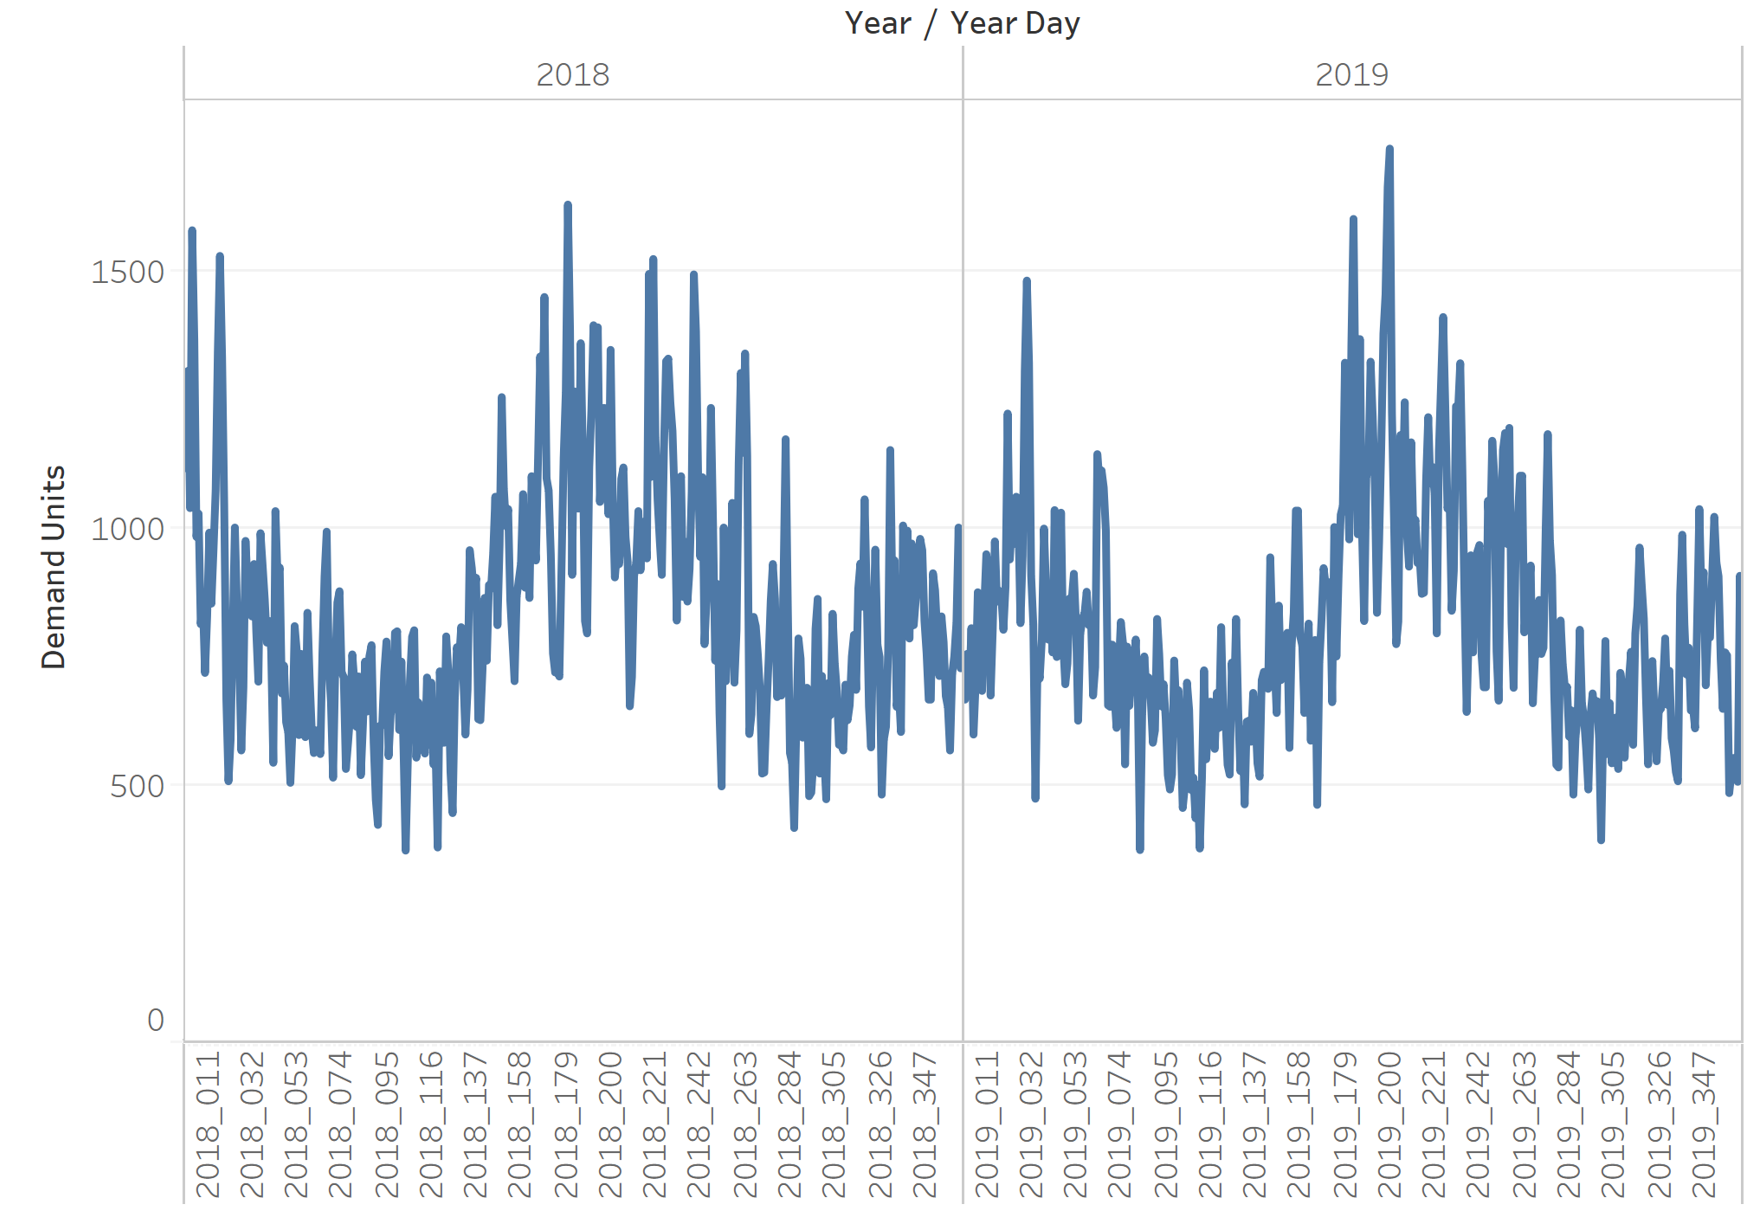
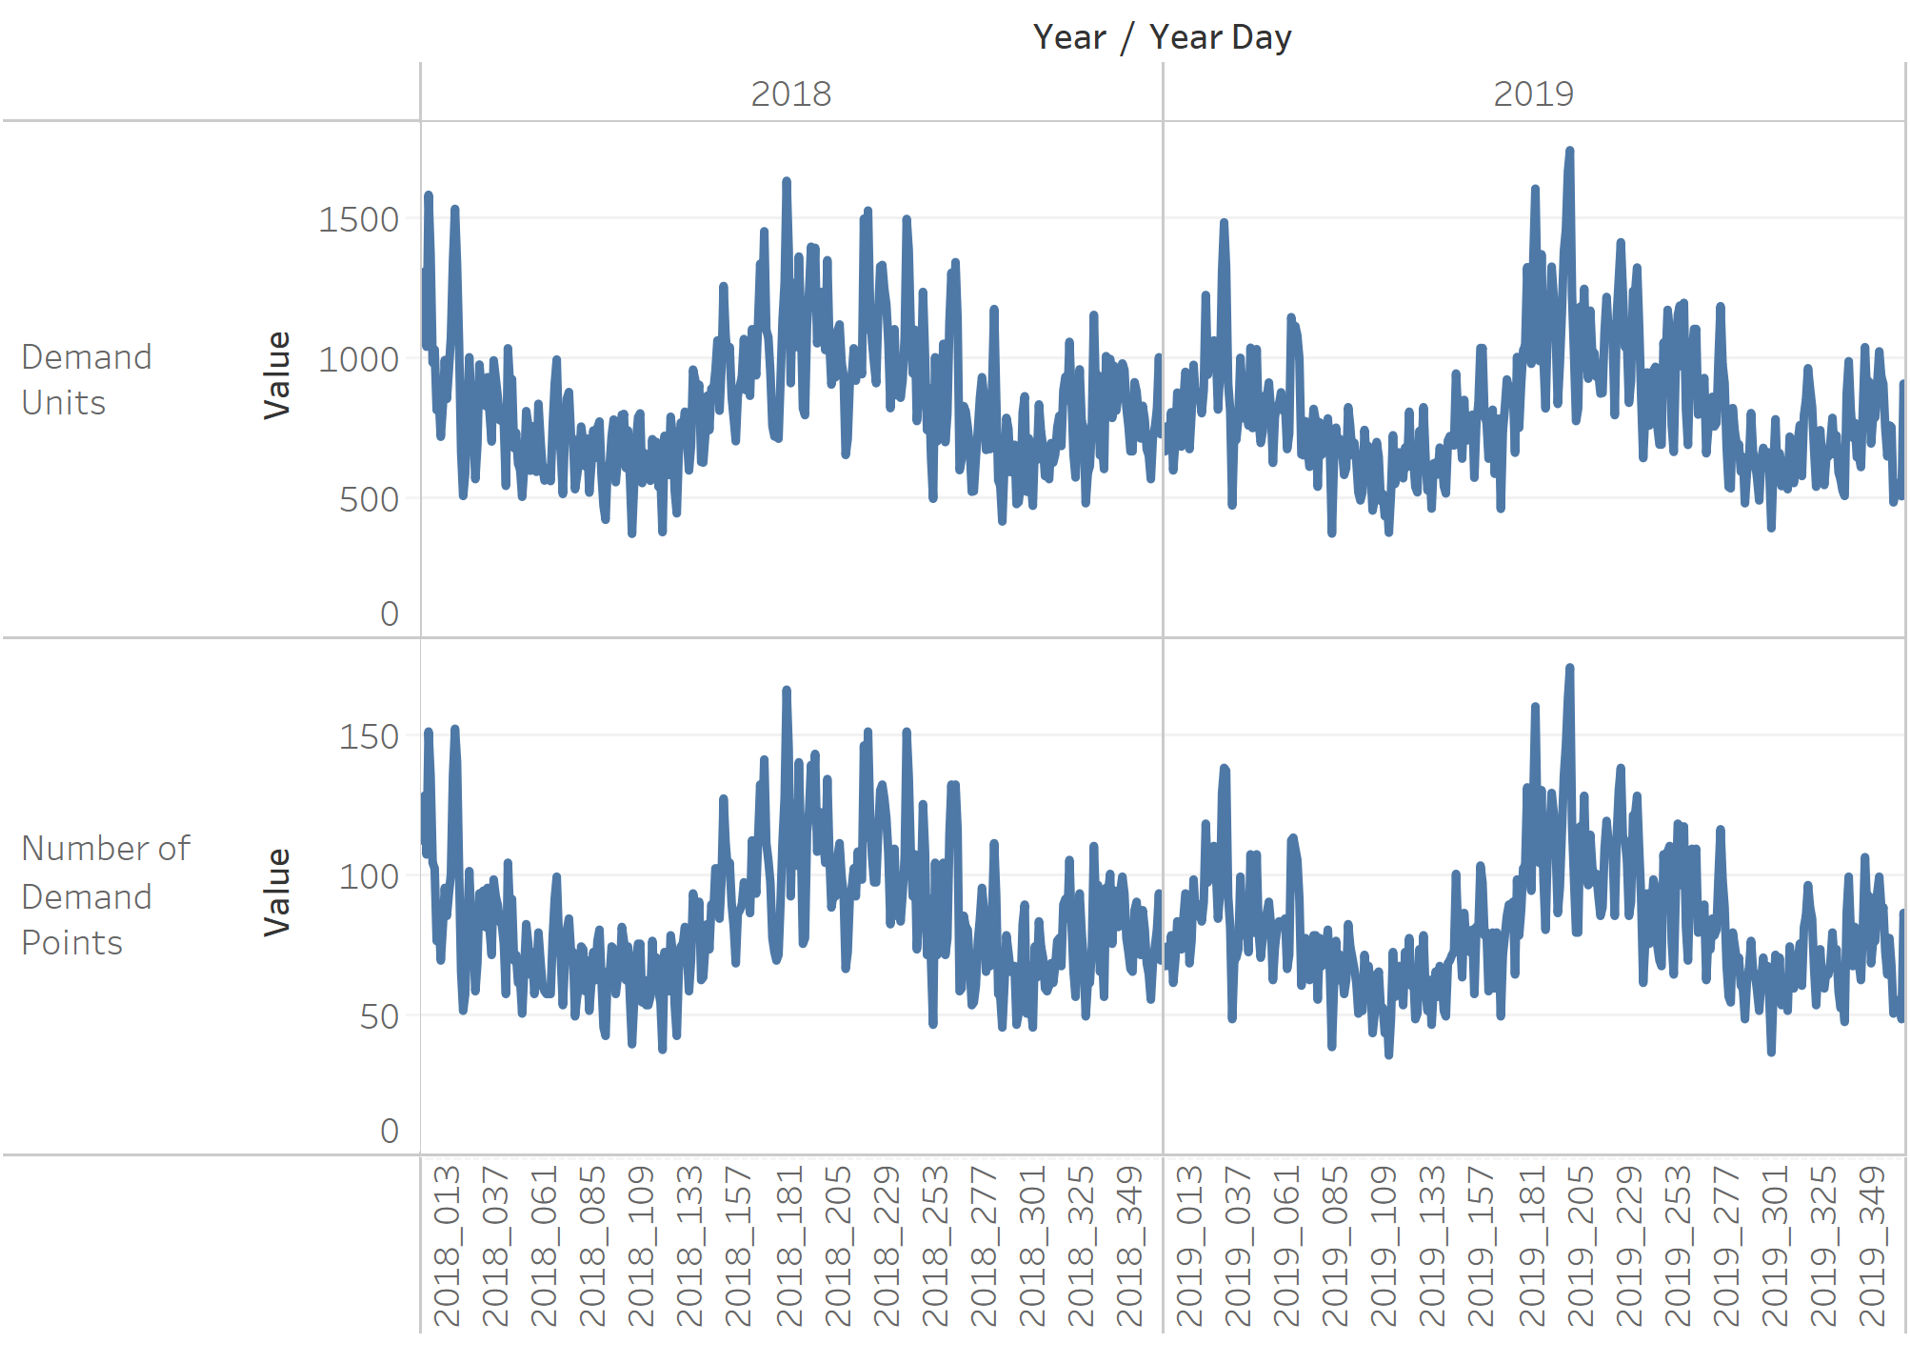
Demand is explained

diff --git a/_posts/2020-3-15-MOPTA 2020 Case Competition Vehicle Fleet Sizing Positioning and Routing.md b/_posts/2020-3-15-MOPTA 2020 Case Competition Vehicle Fleet Sizing Positioning and Routing.md
@@ -48,8 +48,9 @@ Figure 1 shows total demand locations for 2018 and 2019.
 
 There are total of 1451 demand points each of them has a daily demand. Note that 
 daily demand can be zero for some demand points. Figure 2 illustrates daily total demand.
+Average number of 
 
-| ![_config.yml]({{ site.baseurl }}/images/MOPTA 2020 Case Competition Vehicle Fleet Sizing Positioning and Routing/demand_annual.PNG) | 
+| ![_config.yml]({{ site.baseurl }}/images/MOPTA 2020 Case Competition Vehicle Fleet Sizing Positioning and Routing/demand_daily.PNG) | 
 |:--:| 
 | *Figure 2: Daily total demand* |
 
